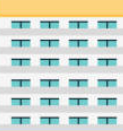
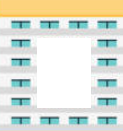
Fixing of game 2 bug for level 11 to 20

Changed region(s): [[0.2927, 0.2748, 0.7561, 0.8244]]

diff --git a/Assets/Scripts/Draw Line/RandomButtonPlacement.cs b/Assets/Scripts/Draw Line/RandomButtonPlacement.cs
@@ -42,6 +42,7 @@ public class RandomButtonPlacement : MonoBehaviour
 
         playerInputSequence.Clear();
         currentButtonToClick = 0;
+
         CreateButtonsForLevel(level);
     }
 
@@ -49,7 +50,15 @@ public class RandomButtonPlacement : MonoBehaviour
     {
         List<string> sequence = new List<string>();
 
-        if (level >= 11)
+        // Levels 1 to 10: Display numbers.
+        if (level <= 10)
+        {
+            for (int i = 1; i <= level; i++)
+            {
+                sequence.Add(i.ToString());
+            }
+        }
+        else
         {
             // Start the alternation at level 11.
             for (int i = 1; i <= level - 10; i++)
@@ -64,14 +73,6 @@ public class RandomButtonPlacement : MonoBehaviour
                 }
             }
         }
-        else
-        {
-            // Levels 1 to 10: Display numbers.
-            for (int i = 1; i <= level; i++)
-            {
-                sequence.Add(i.ToString());
-            }
-        }
 
         return sequence;
     }
@@ -80,13 +81,28 @@ public class RandomButtonPlacement : MonoBehaviour
     {
         ClearButtons();
 
-        correctButtonSequence = GenerateButtonSequence(level);
-
-        for (int i = 0; i < level - 10; i++)
+        // Check if the level is less than or equal to 10.
+        if (level <= 10)
         {
-            CreateRandomButton(correctButtonSequence[i]);
+            correctButtonSequence = GenerateButtonSequence(level);
+
+            for (int i = 0; i < level; i++)
+            {
+                CreateRandomButton(correctButtonSequence[i]);
+            }
+        }
+        else if (level >= 11 && level <= 20)
+        {
+            // Start the alternation at level 11.
+            correctButtonSequence = GenerateButtonSequence(level);
+
+            for (int i = 0; i < level - 10; i++)
+            {
+                CreateRandomButton(correctButtonSequence[i]);
+            }
         }
     }
+
 
     private void ClearButtons()
     {
@@ -153,8 +169,9 @@ public class RandomButtonPlacement : MonoBehaviour
             playerInputSequence.Add(buttonLabel);
             currentButtonToClick++;
 
-            if (playerInputSequence.Count == currentLevel - 10)
+            if (currentButtonToClick >= correctButtonSequence.Count)
             {
+                // All buttons in the sequence have been clicked.
                 bool isCorrect = true;
 
                 for (int i = 0; i < currentLevel - 10; i++)
